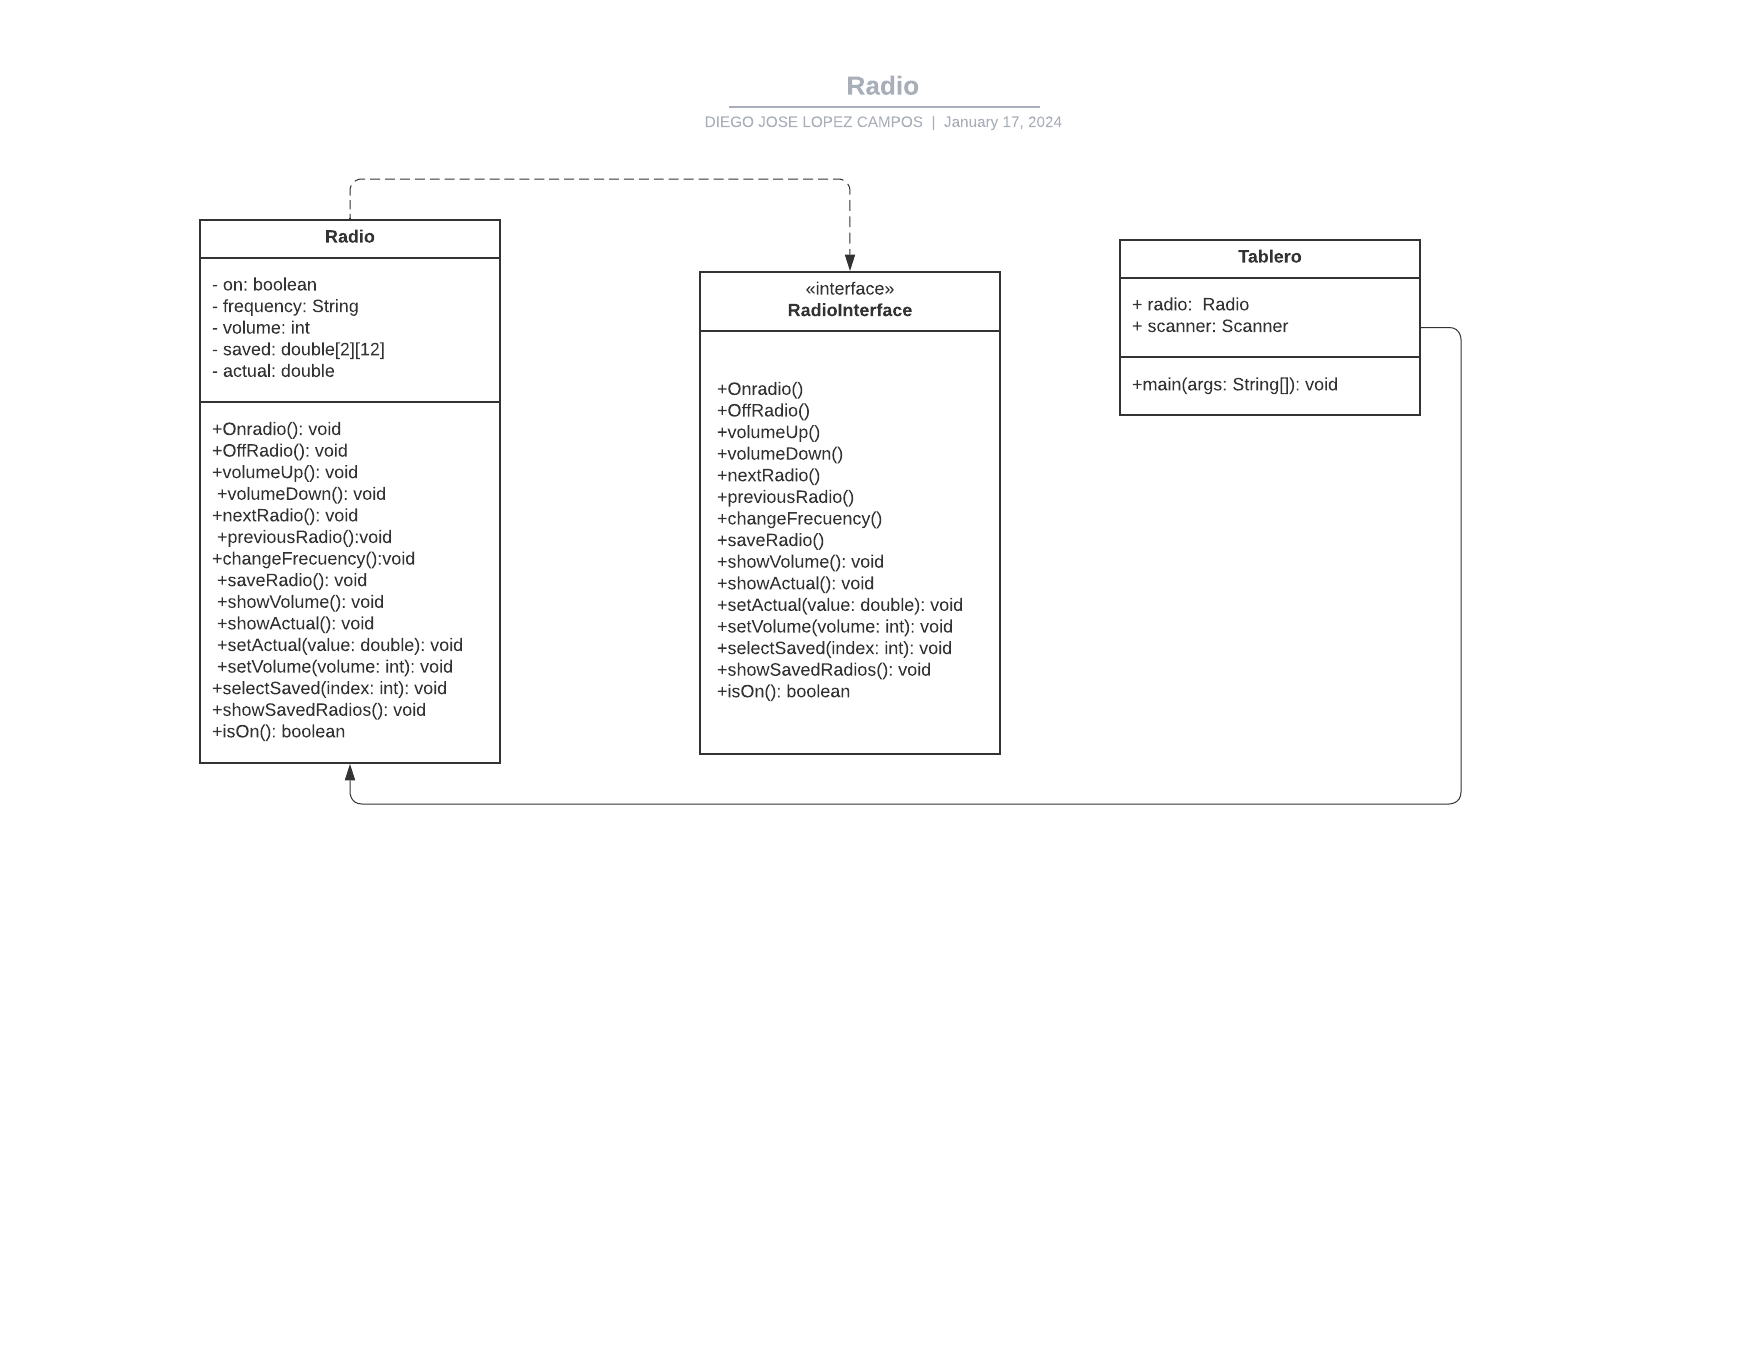
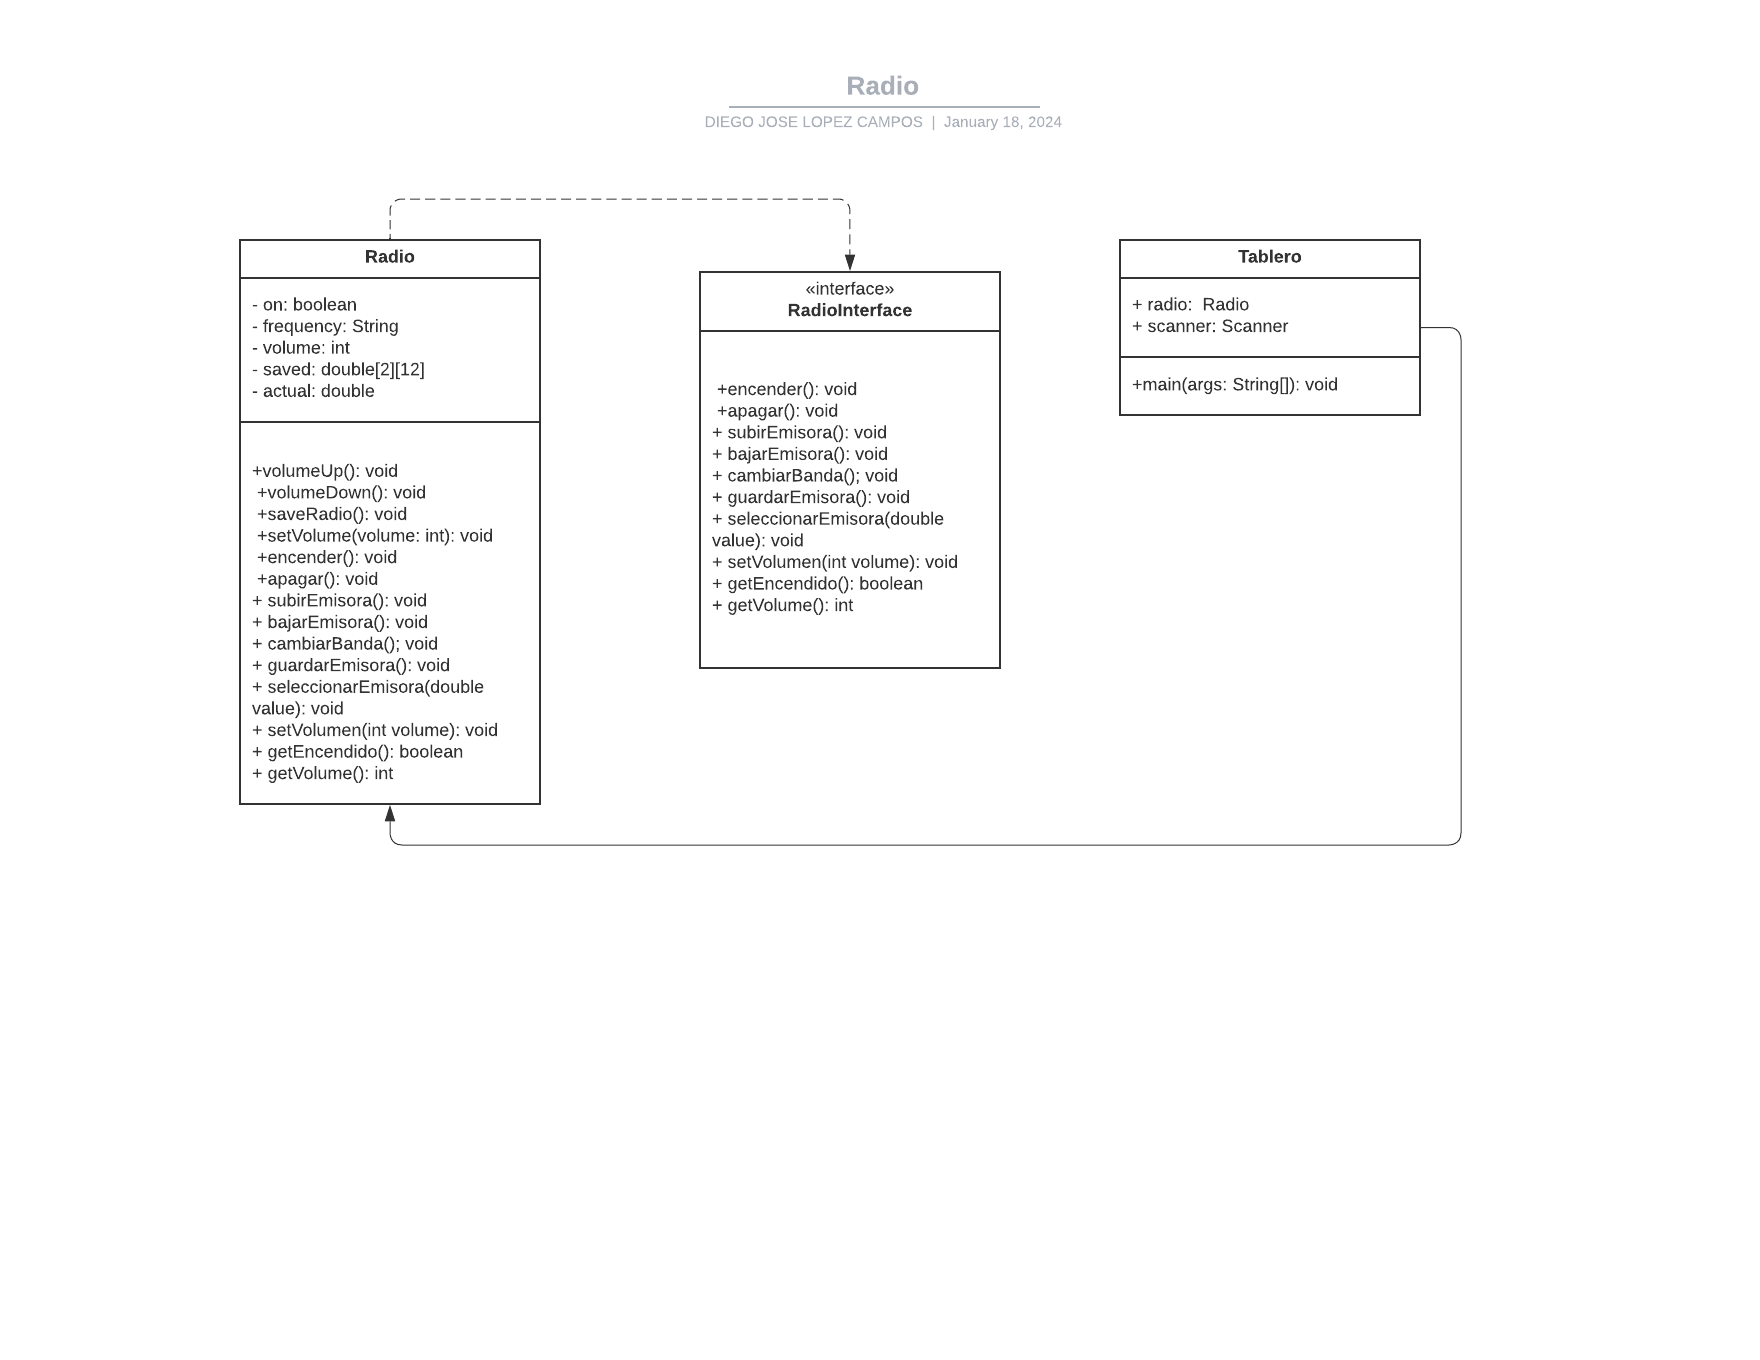
default naming

diff --git a/src/Radio.java b/src/Radio.java
@@ -21,7 +21,7 @@ public class Radio implements RadioInterface {
      *
      * @return true si la radio está encendida, false de lo contrario.
      */
-    public boolean isOn() {
+    public boolean getEncendido() {
         return on;
     }
 
@@ -32,7 +32,7 @@ public class Radio implements RadioInterface {
      * @return Retorna la estacion actual.
      */
     public double getActual() {
-        return this.volume;
+        return this.actual;
     }
 
     /**
@@ -63,7 +63,7 @@ public class Radio implements RadioInterface {
     /**
      * Enciende la radio.
      */
-    public void Onradio() {
+    public void enceder() {
         this.on = true;
         System.out.println("Radio encendida");
     }
@@ -71,7 +71,7 @@ public class Radio implements RadioInterface {
     /**
      * Apaga la radio.
      */
-    public void OffRadio() {
+    public void apagar() {
         this.on = false;
         System.out.println("Radio apagada");
     }
@@ -95,7 +95,7 @@ public class Radio implements RadioInterface {
      *
      * @param value Valor de la estación a establecer.
      */
-    public void setActual(double value) {
+    public void seleccionarEmisora(double value) {
         this.actual = value;
         showActual();
     }
@@ -125,16 +125,16 @@ public class Radio implements RadioInterface {
     /**
      * Cambia a la siguiente estación de radio.
      */
-    public void nextRadio() {
+    public void subirEmisora() {
         if (this.frequency.equals("AM")) {
             if (this.actual < 1610) {
-                setActual(this.actual + 10);
+                seleccionarEmisora(this.actual + 10);
             } else {
                 System.out.println("Ya no hay más estaciones");
             }
         } else if (this.frequency.equals("FM")) {
             if (this.actual < 107.9) {
-                setActual(this.actual + 0.2);
+                seleccionarEmisora(this.actual + 0.2);
             } else {
                 System.out.println("Ya no hay más estaciones");
             }
@@ -144,16 +144,16 @@ public class Radio implements RadioInterface {
     /**
      * Cambia a la estación de radio anterior.
      */
-    public void previousRadio() {
+    public void bajarEmisora() {
         if (this.frequency.equals("AM")) {
             if (this.actual > 530) {
-                setActual(this.actual - 10);
+                seleccionarEmisora(this.actual - 10);
             } else {
                 System.out.println("Ya no hay más estaciones");
             }
         } else if (this.frequency.equals("FM")) {
             if (this.actual > 87.9) {
-                setActual(this.actual - 0.2);
+                seleccionarEmisora(this.actual - 0.2);
             } else {
                 System.out.println("Ya no hay más estaciones");
             }
@@ -163,20 +163,20 @@ public class Radio implements RadioInterface {
     /**
      * Cambia la frecuencia de la radio entre AM y FM.
      */
-    public void changeFrecuency() {
+    public void cambiarBanda() {
         if (this.frequency.equals("FM")) {
             this.frequency = "AM";
-            setActual(530);
+            seleccionarEmisora(530);
         } else if (this.frequency.equals("AM")) {
             this.frequency = "FM";
-            setActual(87.9);
+            seleccionarEmisora(87.9);
         }
     }
 
     /**
      * Guarda la estación actual en un botón preestablecido.
      */
-    public void saveRadio() {
+    public void guardarEmisora() {
         int listIndex = 0;
         if (this.frequency.equals("AM")) {
             listIndex = 0;
@@ -219,7 +219,7 @@ public class Radio implements RadioInterface {
         } else if (this.frequency.equals("FM")) {
             listIndex = 1;
         }
-        System.out.println("-------------------- EMISORAS GUARDADAS EN " + this.actual + " --------------------");
+        System.out.println("-------------------- EMISORAS GUARDADAS EN " + this.frequency + " --------------------");
         for (int i = 0; i < 12; i++) {
             if (this.saved[listIndex][i] != 0.0) {
                 System.out.println((i + 1) + ". " + this.saved[listIndex][i]);
@@ -241,7 +241,7 @@ public class Radio implements RadioInterface {
         }
         double send = this.saved[listIndex][index];
         if (send != 0.0) {
-            setActual(send);
+            seleccionarEmisora(send);
         } else {
             System.out.println("No hay ninguna emisora guardada aquí");
         }

diff --git a/src/RadioInterface.java b/src/RadioInterface.java
@@ -6,59 +6,40 @@ public interface RadioInterface {
     /**
      * Enciende la radio.
      */
-    void Onradio();
+    void enceder();
 
     /**
      * Apaga la radio.
      */
-    void OffRadio();
-
-    /**
-     * Aumenta el volumen de la radio.
-     */
-    void volumeUp();
-
-    /**
-     * Disminuye el volumen de la radio.
-     */
-    void volumeDown();
+    void apagar();
 
     /**
      * Cambia a la siguiente estación de radio.
      */
-    void nextRadio();
+    void subirEmisora();
 
     /**
      * Cambia a la estación de radio anterior.
      */
-    void previousRadio();
+    void bajarEmisora();
 
     /**
      * Cambia la frecuencia de la radio entre AM y FM.
      */
-    void changeFrecuency();
+    void cambiarBanda();
 
     /**
      * Guarda la estación actual en un botón preestablecido.
      */
-    void saveRadio();
+    void guardarEmisora();
 
-    /**
-     * Muestra el volumen actual de la radio.
-     */
-    void showVolume();
-
-    /**
-     * Muestra la frecuencia y estación actual de la radio.
-     */
-    void showActual();
 
     /**
      * Establece la estación actual de la radio.
      *
      * @param value Valor de la estación a establecer.
      */
-    void setActual(double value);
+    void seleccionarEmisora(double value);
 
     /**
      * Establece el volumen de la radio.
@@ -68,23 +49,11 @@ public interface RadioInterface {
     void setVolume(int volume);
 
     /**
-     * Selecciona una emisora guardada y la establece como la estación actual.
-     *
-     * @param index Índice de la emisora guardada.
-     */
-    void selectSaved(int index);
-
-    /**
-     * Muestra las emisoras guardadas.
-     */
-    void showSavedRadios();
-
-    /**
      * Verifica si la radio está encendida.
      *
      * @return true si la radio está encendida, false de lo contrario.
      */
-    boolean isOn();
+    boolean getEncendido();
 
 
     /**
@@ -94,19 +63,6 @@ public interface RadioInterface {
      */
     int getVolume();
 
-    /**
-     * Devuelve el valor de la estacion.
-     *
-     * @return Retorna la estacion actual.
-     */
-    double getActual();
-
-    /**
-     * Devuelve la frecuencia actual
-     *
-     * @return Retorna la frecuencia actual
-     */
-    String getFrequency();
 
 
 }

diff --git a/src/Tablero.java b/src/Tablero.java
@@ -14,7 +14,7 @@ public class Tablero {
         
         while (true) {
             // Enciende la radio si está apagada
-            while(!radio.isOn()) {
+            while(!radio.getEncendido()) {
                 System.out.println("La radio está apagada. Enciéndela para realizar funciones.");
                 System.out.println("1. Encender radio");
                 System.out.println("0. Salir");
@@ -24,7 +24,7 @@ public class Tablero {
 
                 switch(option1){
                     case 1:
-                        radio.Onradio();
+                        radio.enceder();
                         break;
                     case 0:
                         System.out.println("Saliendo...");
@@ -61,19 +61,19 @@ public class Tablero {
                     radio.volumeDown();
                     break;
                 case 4:
-                    radio.nextRadio();
+                    radio.subirEmisora();
                     break;
                 case 5:
-                    radio.previousRadio();
+                    radio.bajarEmisora();
                     break;
                 case 6:
-                    radio.changeFrecuency();
+                    radio.cambiarBanda();
                     break;
                 case 7:
                     radio.showSavedRadios();
                     break;
                 case 8:
-                    radio.saveRadio();
+                    radio.guardarEmisora();
                     break;
                 case 9:
                     System.out.print("Ingresa el número de emisora guardada: ");
@@ -81,7 +81,7 @@ public class Tablero {
                     radio.selectSaved(savedIndex - 1);
                     break;
                 case 10:
-                    radio.OffRadio();
+                    radio.apagar();
                     break;
                 case 0:
                     System.out.println("Saliendo...");

diff --git a/src/RadioTest.java b/src/RadioTest.java
@@ -23,10 +23,10 @@ public class RadioTest {
         Radio radio = new Radio();
         double estacionInicial = radio.getActual();
 
-        radio.nextRadio();
+        radio.subirEmisora();
         assertEquals(estacionInicial + 10, radio.getActual(),0.01);
 
-        radio.previousRadio();
+        radio.bajarEmisora();
         assertEquals(estacionInicial, radio.getActual(),0.01); 
     }
     
@@ -37,10 +37,10 @@ public class RadioTest {
         Radio radio = new Radio();
         String frecuenciaInicial = radio.getFrequency();
 
-        radio.changeFrecuency();
+        radio.cambiarBanda();
         assertEquals("FM", radio.getFrequency()); 
 
-        radio.changeFrecuency();
+        radio.cambiarBanda();
         assertEquals(frecuenciaInicial, radio.getFrequency());
     }
 
@@ -49,16 +49,16 @@ public class RadioTest {
     @Test
     public void testGuardarSeleccionarEmisora() {
         Radio radio = new Radio();
-        radio.Onradio();
+        radio.enceder();
 
-        radio.saveRadio();
+        radio.guardarEmisora();
         assertEquals(1, radio.findEmptySlot(0)); 
 
-        radio.changeFrecuency();
-        radio.saveRadio();
+        radio.cambiarBanda();
+        radio.guardarEmisora();
         assertEquals(1, radio.findEmptySlot(1)); 
 
-        radio.changeFrecuency();
+        radio.cambiarBanda();
         radio.selectSaved(1);
         assertEquals(530, radio.getActual(),0.01); 
     }
